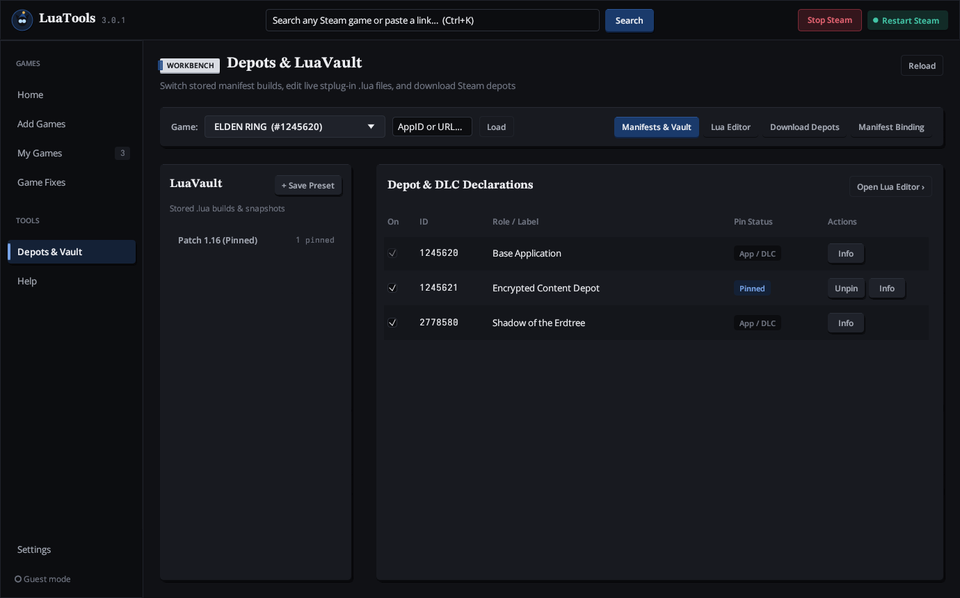
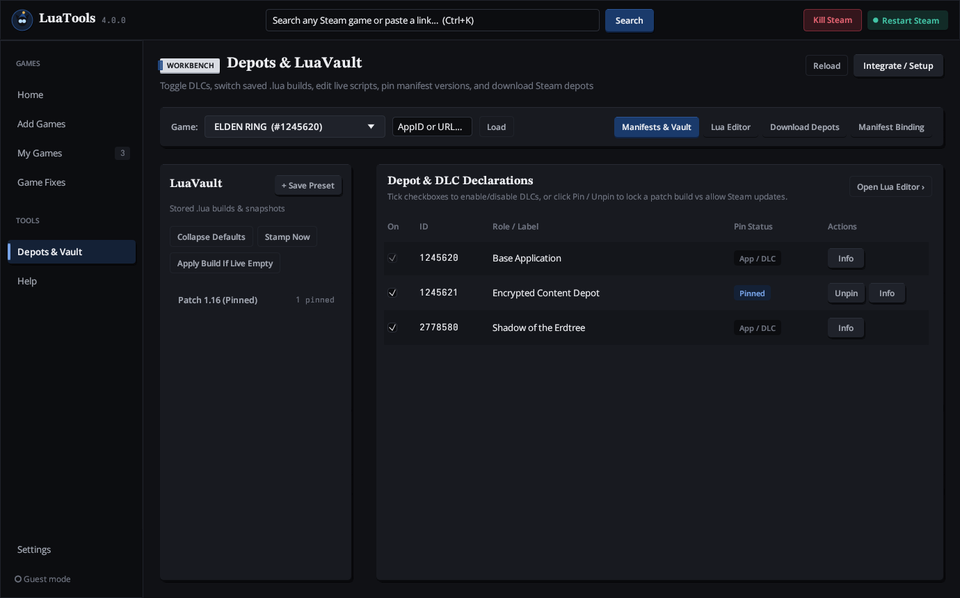
Refresh v4.0.0 guide screenshots with real Steam cover art and fix LuaVault header wrap & install.sh rebuild detection

diff --git a/src/ui/views_workbench.rs b/src/ui/views_workbench.rs
@@ -518,7 +518,6 @@ impl LuaToolsApp {
                                 );
                             },
                             |ui| {
-                                ui.spacing_mut().item_spacing.x = 6.0;
                                 if table_button(ui, "+ Save Preset", false).clicked() {
                                     self.text_prompt_modal.open = true;
                                     self.text_prompt_modal.kind = "preset".into();
@@ -527,54 +526,6 @@ impl LuaToolsApp {
                                         "Name this .lua build/preset:".into();
                                     self.text_prompt_modal.value.clear();
                                 }
-                                if ghost_button(ui, "Collapse Defaults").clicked() {
-                                    let removed = self.lua_vault.collapse_defaults(app_id);
-                                    self.depots_variants = self.lua_vault.get_variants(app_id);
-                                    self.notify(
-                                        format!("Collapsed {} duplicate default variant(s)", removed),
-                                        ToastKind::Info,
-                                    );
-                                }
-                                if ghost_button(ui, "Stamp Now").clicked() {
-                                    let label = if self.depots_selected_variant_hash.is_some() {
-                                        self.depots_variants
-                                            .iter()
-                                            .find(|v| self.depots_selected_variant_hash.as_deref() == Some(v.hash.as_str()))
-                                            .and_then(|v| v.label.clone())
-                                    } else {
-                                        None
-                                    };
-                                    if let Some(v) = self.lua_vault.stamp_now(app_id, label.as_deref()) {
-                                        self.depots_variants = self.lua_vault.get_variants(app_id);
-                                        self.notify(
-                                            format!("Stamped live .lua as build variant: {}", v.display_label()),
-                                            ToastKind::Success,
-                                        );
-                                    } else {
-                                        self.notify("No live .lua to stamp", ToastKind::Warning);
-                                    }
-                                }
-                                if ghost_button(ui, "Apply Build If Live Empty").clicked() {
-                                    if let Some(v) = self.lua_vault.apply_build_if_nothing_live(app_id) {
-                                        let live_txt = self.lua_vault.read_live_text(app_id);
-                                        if !live_txt.trim().is_empty() {
-                                            let parsed = LuaFileParser::parse_text(&live_txt, app_id);
-                                            crate::services::lua_installer::LuaInstaller::sync_with_slssteam(
-                                                &mut self.slssteam_service,
-                                                app_id,
-                                                &parsed,
-                                            );
-                                        }
-                                        self.reload_depots_local(app_id);
-                                        self.refresh_all_local_state();
-                                        self.notify(
-                                            format!("Applied build variant (was empty): {}", v.display_label()),
-                                            ToastKind::Success,
-                                        );
-                                    } else {
-                                        self.notify("Already have live .lua or no build variants exist", ToastKind::Info);
-                                    }
-                                }
                             },
                         );
                         ui.label(
@@ -582,6 +533,58 @@ impl LuaToolsApp {
                                 .size(12.0)
                                 .color(Palette::TEXT_MUTED),
                         );
+                        ui.add_space(6.0);
+                        ui.horizontal_wrapped(|ui| {
+                            ui.spacing_mut().item_spacing = egui::Vec2::new(6.0, 6.0);
+                            if ghost_button(ui, "Collapse Defaults").clicked() {
+                                let removed = self.lua_vault.collapse_defaults(app_id);
+                                self.depots_variants = self.lua_vault.get_variants(app_id);
+                                self.notify(
+                                    format!("Collapsed {} duplicate default variant(s)", removed),
+                                    ToastKind::Info,
+                                );
+                            }
+                            if ghost_button(ui, "Stamp Now").clicked() {
+                                let label = if self.depots_selected_variant_hash.is_some() {
+                                    self.depots_variants
+                                        .iter()
+                                        .find(|v| self.depots_selected_variant_hash.as_deref() == Some(v.hash.as_str()))
+                                        .and_then(|v| v.label.clone())
+                                } else {
+                                    None
+                                };
+                                if let Some(v) = self.lua_vault.stamp_now(app_id, label.as_deref()) {
+                                    self.depots_variants = self.lua_vault.get_variants(app_id);
+                                    self.notify(
+                                        format!("Stamped live .lua as build variant: {}", v.display_label()),
+                                        ToastKind::Success,
+                                    );
+                                } else {
+                                    self.notify("No live .lua to stamp", ToastKind::Warning);
+                                }
+                            }
+                            if ghost_button(ui, "Apply Build If Live Empty").clicked() {
+                                if let Some(v) = self.lua_vault.apply_build_if_nothing_live(app_id) {
+                                    let live_txt = self.lua_vault.read_live_text(app_id);
+                                    if !live_txt.trim().is_empty() {
+                                        let parsed = LuaFileParser::parse_text(&live_txt, app_id);
+                                        crate::services::lua_installer::LuaInstaller::sync_with_slssteam(
+                                            &mut self.slssteam_service,
+                                            app_id,
+                                            &parsed,
+                                        );
+                                    }
+                                    self.reload_depots_local(app_id);
+                                    self.refresh_all_local_state();
+                                    self.notify(
+                                        format!("Applied build variant (was empty): {}", v.display_label()),
+                                        ToastKind::Success,
+                                    );
+                                } else {
+                                    self.notify("Already have live .lua or no build variants exist", ToastKind::Info);
+                                }
+                            }
+                        });
                         ui.add_space(10.0);
 
                         let active_hash = self.lua_vault.get_active_hash(app_id);

diff --git a/tests/ui_visual_qa.rs b/tests/ui_visual_qa.rs
@@ -4,13 +4,15 @@
 
 #![cfg(feature = "gui")]
 
-use std::collections::HashMap;
+use std::collections::{BTreeSet, HashMap};
+use std::io::Read;
 use std::path::PathBuf;
+use std::time::Duration;
 
 use eframe::egui::{
     self,
     epaint::{ImageData, Primitive, TextureId},
-    Color32, Pos2, RawInput, Rect, Vec2,
+    Color32, ColorImage, Pos2, RawInput, Rect, TextureOptions, Vec2,
 };
 
 use luatools_linux::ui::app::LuaToolsApp;
@@ -205,6 +207,78 @@ fn rasterize_primitives(
     raw
 }
 
+fn load_cover_bytes(app_id: u32, agent: &ureq::Agent) -> Option<Vec<u8>> {
+    if let Some(cache_dir) = dirs::cache_dir().map(|d| d.join("luatools/covers")) {
+        for ext in ["jpg", "png", "webp"] {
+            let p = cache_dir.join(format!("{}.{}", app_id, ext));
+            if let Ok(bytes) = std::fs::read(&p) {
+                if !bytes.is_empty() {
+                    return Some(bytes);
+                }
+            }
+        }
+    }
+
+    let urls = [
+        format!(
+            "https://shared.fastly.steamstatic.com/store_item_assets/steam/apps/{}/header.jpg",
+            app_id
+        ),
+        format!(
+            "https://cdn.akamai.steamstatic.com/steam/apps/{}/header.jpg",
+            app_id
+        ),
+    ];
+    for url in urls {
+        if let Ok(resp) = agent.get(&url).call() {
+            let mut buf = Vec::new();
+            if resp.into_reader().take(4 * 1024 * 1024).read_to_end(&mut buf).is_ok()
+                && !buf.is_empty()
+            {
+                return Some(buf);
+            }
+        }
+    }
+    None
+}
+
+fn preload_demo_covers(ctx: &egui::Context, app: &mut LuaToolsApp) {
+    let mut app_ids: BTreeSet<u32> = BTreeSet::new();
+    for (aid, _) in &app.recent_installed {
+        app_ids.insert(*aid);
+    }
+    for row in &app.library_rows {
+        app_ids.insert(row.app_id);
+    }
+    for item in app.featured_top.iter().chain(app.featured_new.iter()) {
+        app_ids.insert(item.app_id);
+    }
+    if let Some(aid) = app.depots_app_id {
+        app_ids.insert(aid);
+    }
+    if let Some(aid) = app.fixes_current_app {
+        app_ids.insert(aid);
+    }
+
+    let agent = ureq::AgentBuilder::new()
+        .timeout(Duration::from_secs(10))
+        .build();
+
+    for aid in app_ids {
+        let bytes = load_cover_bytes(aid, &agent)
+            .unwrap_or_else(|| panic!("Failed to load Steam cover artwork for AppID {}", aid));
+        let decoded = image::load_from_memory(&bytes)
+            .unwrap_or_else(|e| panic!("Failed to decode cover for AppID {}: {}", aid, e))
+            .to_rgba8();
+        let (w, h) = decoded.dimensions();
+        let color_img = ColorImage::from_rgba_unmultiplied([w as usize, h as usize], decoded.as_raw());
+        let tex = ctx.load_texture(format!("cover_{}", aid), color_img, TextureOptions::LINEAR);
+        app.cover_textures.insert(aid, tex);
+        app.cover_in_flight.remove(&aid);
+        app.cover_failed_at.remove(&aid);
+    }
+}
+
 #[test]
 fn headless_papercut_views_render_cleanly_at_wide_and_narrow_resolutions() {
     let tmp = tempfile::tempdir().unwrap();
@@ -385,6 +459,10 @@ fn headless_papercut_views_render_cleanly_at_wide_and_narrow_resolutions() {
     let guide_out_opt = std::env::var("LUATOOLS_GUIDE_OUT").ok().map(PathBuf::from);
     if let Some(ref gd) = guide_out_opt {
         std::fs::create_dir_all(gd).unwrap();
+    }
+
+    if out_dir_opt.is_some() || guide_out_opt.is_some() {
+        preload_demo_covers(&ctx, &mut app);
     }
 
     for case in cases {
